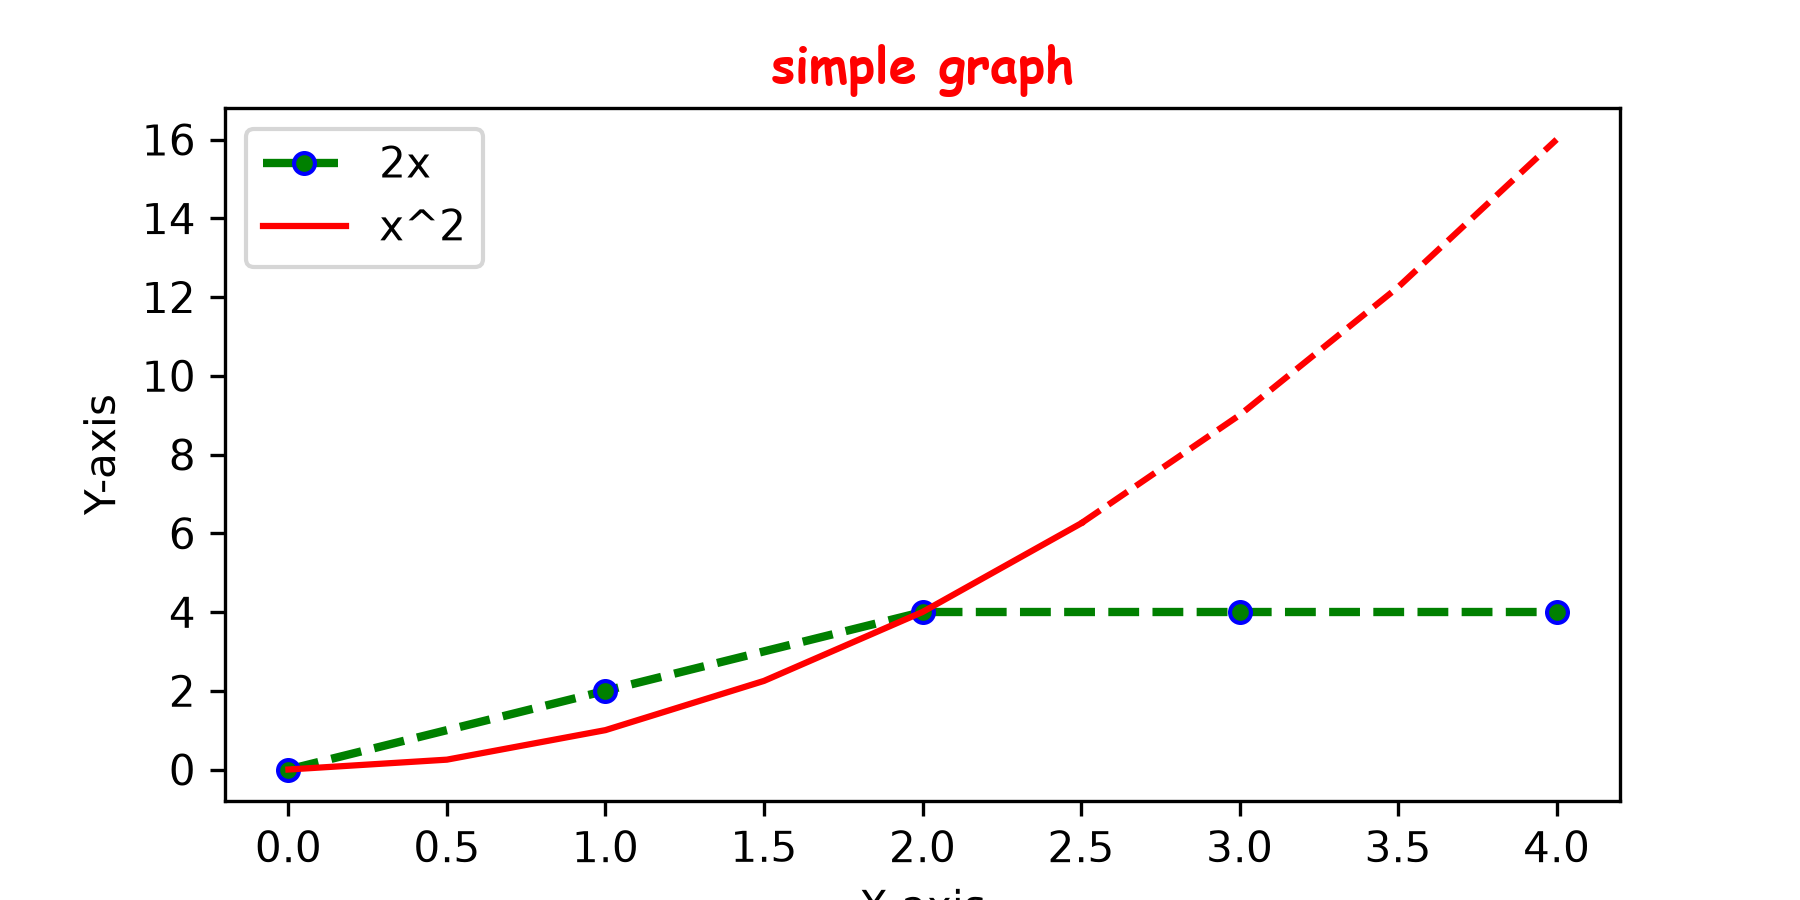
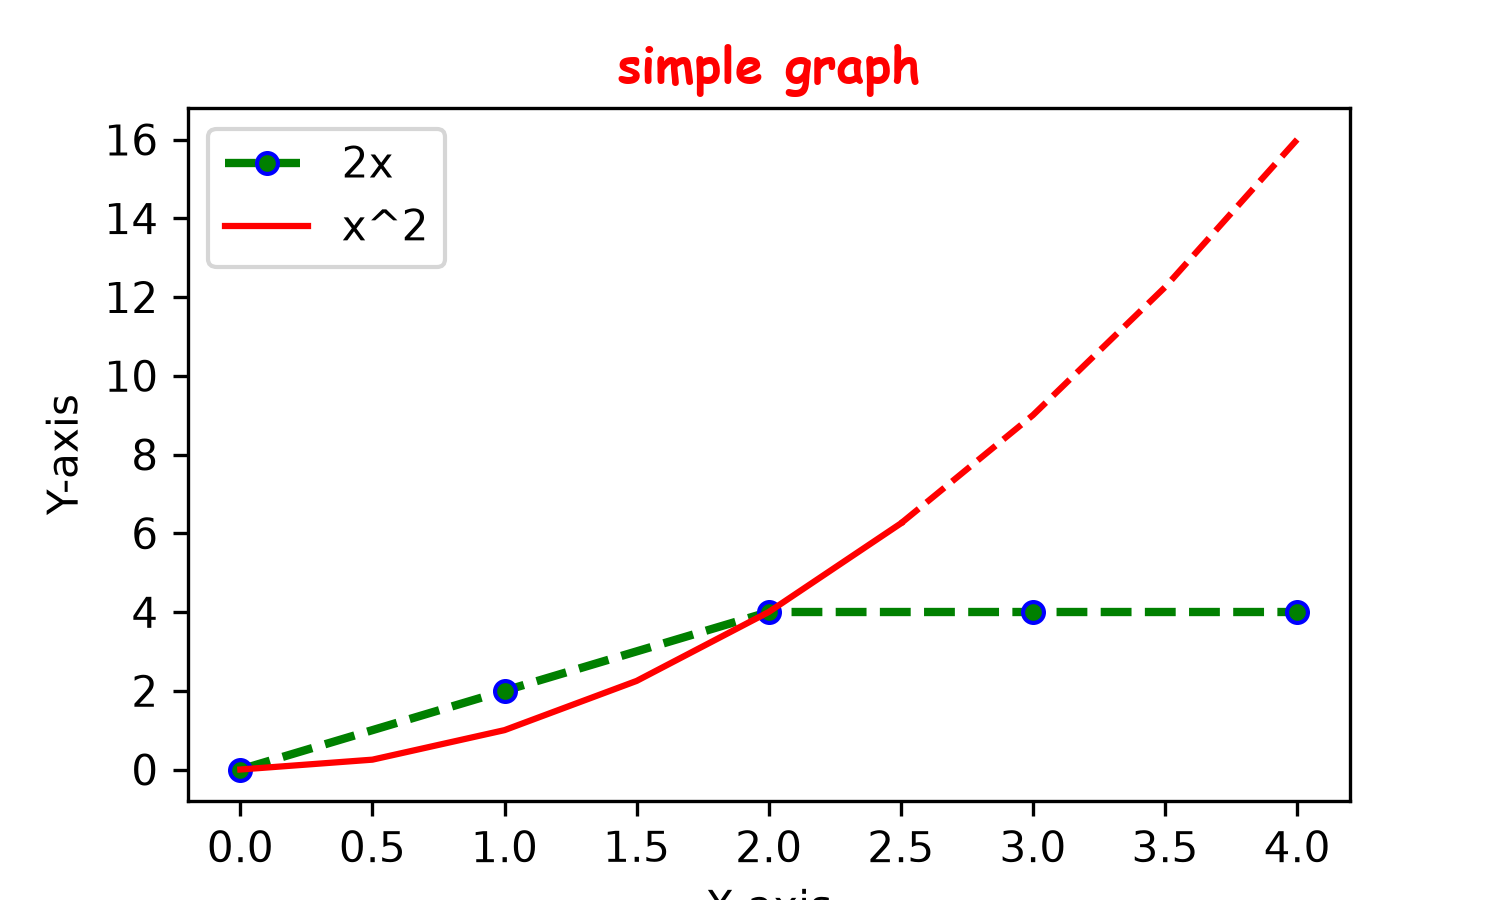
did practice of linear algebra, and learn matplotlib

diff --git a/linear_algebra.py b/linear_algebra.py
@@ -14,20 +14,54 @@ print(result)
 
 print("Scaler:")# scaler are numbers that strech or squeeze the vector.
 
-_2D_matrix= np.array([[1,2],
+matrix= np.array([[1,2],
                       [3,4]])# here the first column will be i vector and second will be j vector
 scaler=np.array([2,3])
 
-output=_2D_matrix*scaler #now the i vector will scales by 2 and j vector by 3
+output=matrix*scaler #now the i vector will scales by 2 and j vector by 3
 print(output)
 
 print("transformation matrix:")
+##Transformation of any vector mean , it stretchs the X-direction by 2 times and Y-direction by 3 times.
+
+print("find T([4,5])")
+a=np.array([4,5])
+scaler1=np.array([2,3])
+result=a*scaler1
+print(result)
 
 print("rotation matrix:")
-_3D_matrix= np.array([[0,-1],
-                      [1,0]])
+matrix1= np.array([[0,-1],
+                      [1,0]]) #This is rotation matrix
 x=np.array([1,2])
-print(np.matmul(_3D_matrix,x))
+print(np.matmul(matrix1,x))
 
-print("")
+print("finding determinant of a matrix:")
+matrix2= np.array([[1,2],[3,4]])
+det=np.linalg.det(matrix2)#linalg use to find determinant.
+print(det)
+
+print("Identity matrix:")
+indent_matrix=np.eye(3)#np.eye is used to make identity matrix by giving the dimension of matrix.
+print(indent_matrix)
+
+g_matrix=np.array([[1,9,7],
+                   [8,2,5],
+                   [5,7,4]])
+
+print("Rank of matrix:")
+print(np.linalg.matrix_rank(g_matrix))#Rank of matrix, it can define the dimensions of matrix.
+
+
+# eigen vectors: vectors that remains same of direction after scaling or squeeze them.
+# eigen value : it is number by which vectors are scaled.
+
+print("finding eigenvalues:")
+
+print("finding eigenvectors:")
+results,x=np.linalg.eig(g_matrix)
+print(x)#it will give eigen vectors
+print(results)#will print eigen values, for getting only eigen values use  .eigvals
+
+
 

diff --git a/mat_plotlib.py b/mat_plotlib.py
@@ -1,3 +1,4 @@
+
 import matplotlib.pyplot as plt
 import numpy as np
 import pandas as pd
@@ -46,3 +47,21 @@ plt.show()
 
 
 ### Bar Charts
+
+labels=['A', 'B' , 'C']
+values=[3,2,6,]
+
+bars= plt.bar(labels,values)#bar chart
+plt.figure(figsize=[10,5],dpi=300)
+#plt.xlabel("X-axis",fontdict={'color':'r','fontsize':10})
+#plt.ylabel("Y-axis",fontdict={'color':'r','fontsize':10})
+
+bars[0].set_hatch('/')#pattern in bars
+bars[1].set_hatch('\\')
+bars[2].set_hatch('|')
+
+##or :
+#patterns=['/','\\','|']
+#for bar in bars:
+#      bar.set_hatch(patterns.pop(0))##here pop(0) tells to take pattern values from start .
+plt.show()